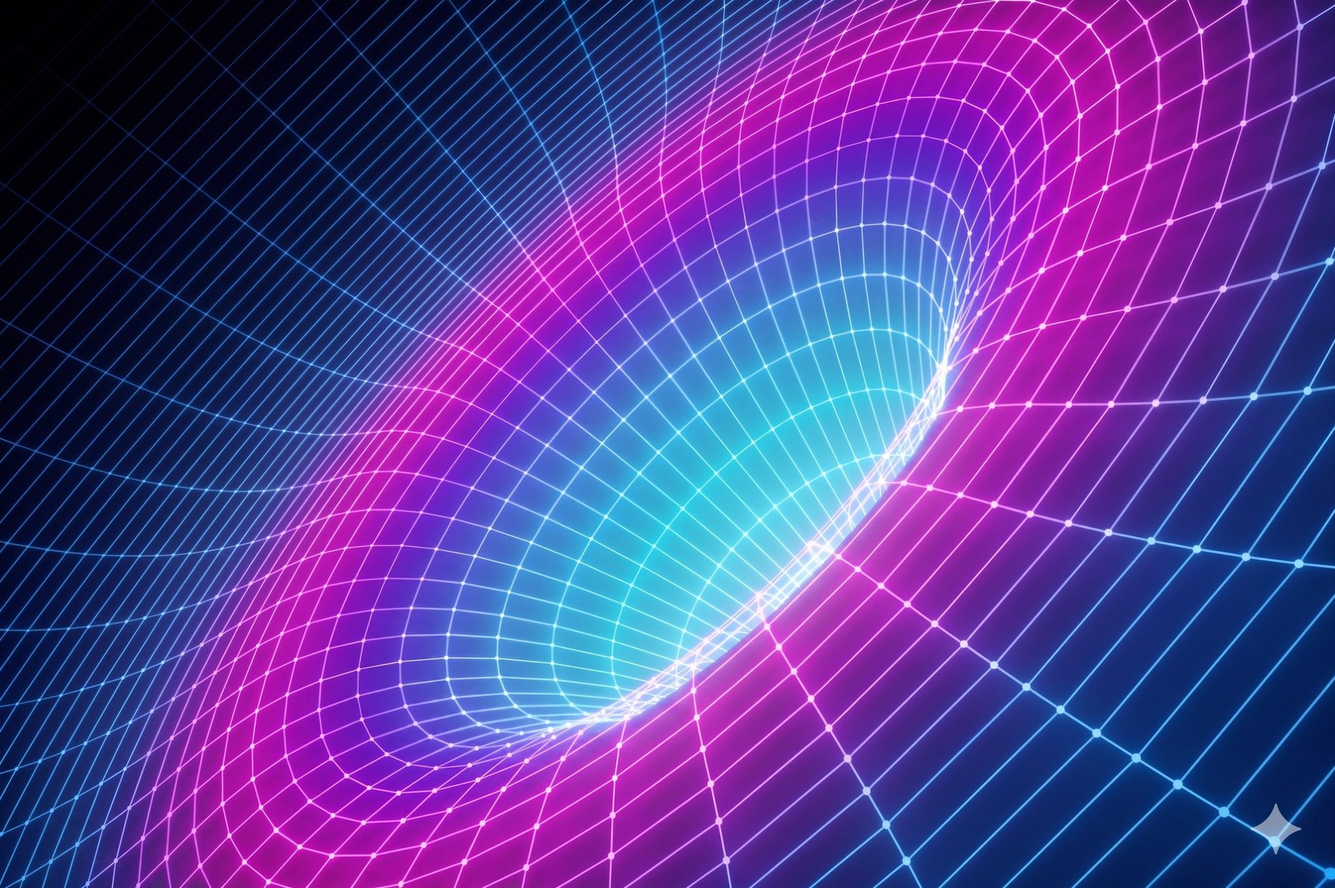
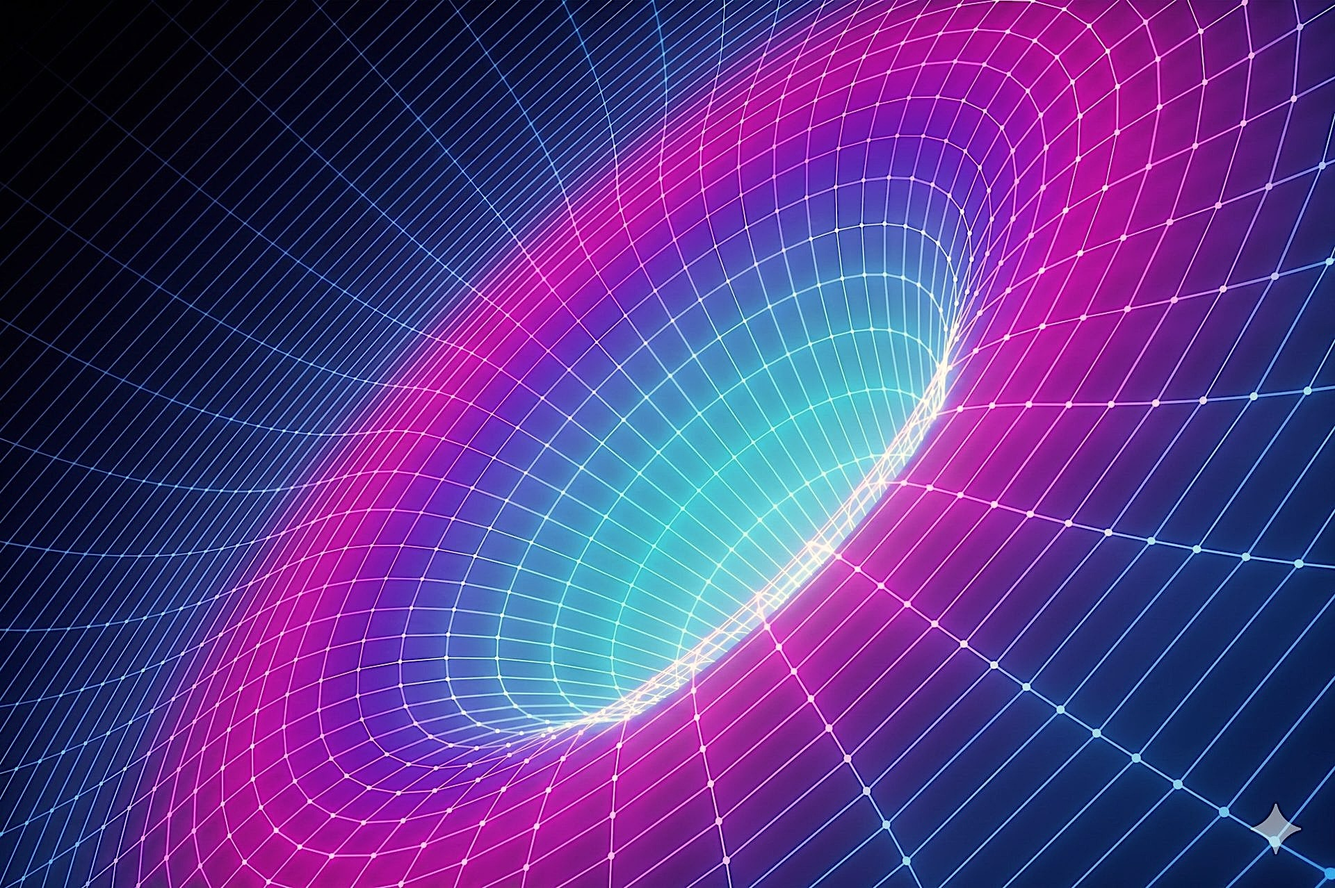
feat: wormhole background for physics pages

diff --git a/物理/index.html b/物理/index.html
@@ -46,6 +46,7 @@ header .meta { font-family: "JetBrains Mono", monospace; font-size: 11px; color:
 @media (prefers-reduced-motion: reduce) { * { transition: none !important; } }
 :root{--accent:#2d5fd6;--accent-soft:rgba(45,95,214,0.08);}[data-theme="dark"]{--accent:#6f9bff;--accent-soft:rgba(111,155,255,0.12);}
 body{background-image:none !important;background-color:#07080f !important;}body::before{content:'';position:fixed;inset:0;z-index:-2;background:url('https://takatomoteki.github.io/pdf-site/assets/phys-bg.jpg') center center/cover no-repeat;}body::after{content:'';position:fixed;inset:0;z-index:-1;background:rgba(7,8,18,0.82);}:root,[data-theme="dark"]{--ink:#f0f1f8;--ink-soft:#a9adca;--surface:rgba(22,24,42,0.66);--line:rgba(255,255,255,0.14);}header{background:rgba(7,8,18,0.45) !important;-webkit-backdrop-filter:blur(14px);backdrop-filter:blur(14px);}.pdf-item,.cat-card{-webkit-backdrop-filter:blur(10px);backdrop-filter:blur(10px);}
+body{background-image:none !important;background-color:#07080f !important;}body::before{content:'';position:fixed;inset:0;z-index:-2;background:url('https://takatomoteki.github.io/pdf-site/assets/phys-bg.jpg') center center/cover no-repeat;}body::after{content:'';position:fixed;inset:0;z-index:-1;background:rgba(7,8,18,0.82);}:root,[data-theme="dark"]{--ink:#f0f1f8;--ink-soft:#a9adca;--surface:rgba(22,24,42,0.66);--line:rgba(255,255,255,0.14);}header{background:rgba(7,8,18,0.45) !important;-webkit-backdrop-filter:blur(14px);backdrop-filter:blur(14px);}.pdf-item,.cat-card{-webkit-backdrop-filter:blur(10px);backdrop-filter:blur(10px);}
 .cat-list{display:flex;flex-direction:column;gap:14px}
 .cat-card{background:var(--surface);border:1px solid var(--line);border-radius:18px;padding:24px 26px;text-decoration:none;color:var(--ink);display:flex;align-items:center;gap:20px;box-shadow:var(--shadow);transition:transform 0.25s cubic-bezier(0.2,0.8,0.2,1),box-shadow 0.25s,border-color 0.25s;position:relative;overflow:hidden}
 .cat-card::after{content:"";position:absolute;inset:0;background:var(--accent-soft);opacity:0;transition:opacity 0.25s;pointer-events:none}

diff --git a/物理/26物理確認テスト/index.html b/物理/26物理確認テスト/index.html
@@ -46,6 +46,7 @@ header .meta { font-family: "JetBrains Mono", monospace; font-size: 11px; color:
 @media (prefers-reduced-motion: reduce) { * { transition: none !important; } }
 :root{--accent:#2d5fd6;--accent-soft:rgba(45,95,214,0.08);}[data-theme="dark"]{--accent:#6f9bff;--accent-soft:rgba(111,155,255,0.12);}
 body{background-image:none !important;background-color:#07080f !important;}body::before{content:'';position:fixed;inset:0;z-index:-2;background:url('https://takatomoteki.github.io/pdf-site/assets/phys-bg.jpg') center center/cover no-repeat;}body::after{content:'';position:fixed;inset:0;z-index:-1;background:rgba(7,8,18,0.82);}:root,[data-theme="dark"]{--ink:#f0f1f8;--ink-soft:#a9adca;--surface:rgba(22,24,42,0.66);--line:rgba(255,255,255,0.14);}header{background:rgba(7,8,18,0.45) !important;-webkit-backdrop-filter:blur(14px);backdrop-filter:blur(14px);}.pdf-item,.cat-card{-webkit-backdrop-filter:blur(10px);backdrop-filter:blur(10px);}
+body{background-image:none !important;background-color:#07080f !important;}body::before{content:'';position:fixed;inset:0;z-index:-2;background:url('https://takatomoteki.github.io/pdf-site/assets/phys-bg.jpg') center center/cover no-repeat;}body::after{content:'';position:fixed;inset:0;z-index:-1;background:rgba(7,8,18,0.82);}:root,[data-theme="dark"]{--ink:#f0f1f8;--ink-soft:#a9adca;--surface:rgba(22,24,42,0.66);--line:rgba(255,255,255,0.14);}header{background:rgba(7,8,18,0.45) !important;-webkit-backdrop-filter:blur(14px);backdrop-filter:blur(14px);}.pdf-item,.cat-card{-webkit-backdrop-filter:blur(10px);backdrop-filter:blur(10px);}
 .pdf-list{display:flex;flex-direction:column;gap:12px}
 .pdf-item{background:var(--surface);border:1px solid var(--line);border-radius:16px;padding:18px 22px;display:flex;align-items:center;justify-content:space-between;gap:16px;box-shadow:var(--shadow);transition:transform 0.2s,box-shadow 0.2s,border-color 0.2s}
 .pdf-item:hover{transform:translateY(-2px);box-shadow:var(--shadow-lift);border-color:var(--accent)}

diff --git a/物理/物理ミニテスト/index.html b/物理/物理ミニテスト/index.html
@@ -46,6 +46,7 @@ header .meta { font-family: "JetBrains Mono", monospace; font-size: 11px; color:
 @media (prefers-reduced-motion: reduce) { * { transition: none !important; } }
 :root{--accent:#2d5fd6;--accent-soft:rgba(45,95,214,0.08);}[data-theme="dark"]{--accent:#6f9bff;--accent-soft:rgba(111,155,255,0.12);}
 body{background-image:none !important;background-color:#07080f !important;}body::before{content:'';position:fixed;inset:0;z-index:-2;background:url('https://takatomoteki.github.io/pdf-site/assets/phys-bg.jpg') center center/cover no-repeat;}body::after{content:'';position:fixed;inset:0;z-index:-1;background:rgba(7,8,18,0.82);}:root,[data-theme="dark"]{--ink:#f0f1f8;--ink-soft:#a9adca;--surface:rgba(22,24,42,0.66);--line:rgba(255,255,255,0.14);}header{background:rgba(7,8,18,0.45) !important;-webkit-backdrop-filter:blur(14px);backdrop-filter:blur(14px);}.pdf-item,.cat-card{-webkit-backdrop-filter:blur(10px);backdrop-filter:blur(10px);}
+body{background-image:none !important;background-color:#07080f !important;}body::before{content:'';position:fixed;inset:0;z-index:-2;background:url('https://takatomoteki.github.io/pdf-site/assets/phys-bg.jpg') center center/cover no-repeat;}body::after{content:'';position:fixed;inset:0;z-index:-1;background:rgba(7,8,18,0.82);}:root,[data-theme="dark"]{--ink:#f0f1f8;--ink-soft:#a9adca;--surface:rgba(22,24,42,0.66);--line:rgba(255,255,255,0.14);}header{background:rgba(7,8,18,0.45) !important;-webkit-backdrop-filter:blur(14px);backdrop-filter:blur(14px);}.pdf-item,.cat-card{-webkit-backdrop-filter:blur(10px);backdrop-filter:blur(10px);}
 .pdf-list{display:flex;flex-direction:column;gap:12px}
 .pdf-item{background:var(--surface);border:1px solid var(--line);border-radius:16px;padding:18px 22px;display:flex;align-items:center;justify-content:space-between;gap:16px;box-shadow:var(--shadow);transition:transform 0.2s,box-shadow 0.2s,border-color 0.2s}
 .pdf-item:hover{transform:translateY(-2px);box-shadow:var(--shadow-lift);border-color:var(--accent)}

diff --git a/物理/物理基本編/index.html b/物理/物理基本編/index.html
@@ -46,6 +46,7 @@ header .meta { font-family: "JetBrains Mono", monospace; font-size: 11px; color:
 @media (prefers-reduced-motion: reduce) { * { transition: none !important; } }
 :root{--accent:#2d5fd6;--accent-soft:rgba(45,95,214,0.08);}[data-theme="dark"]{--accent:#6f9bff;--accent-soft:rgba(111,155,255,0.12);}
 body{background-image:none !important;background-color:#07080f !important;}body::before{content:'';position:fixed;inset:0;z-index:-2;background:url('https://takatomoteki.github.io/pdf-site/assets/phys-bg.jpg') center center/cover no-repeat;}body::after{content:'';position:fixed;inset:0;z-index:-1;background:rgba(7,8,18,0.82);}:root,[data-theme="dark"]{--ink:#f0f1f8;--ink-soft:#a9adca;--surface:rgba(22,24,42,0.66);--line:rgba(255,255,255,0.14);}header{background:rgba(7,8,18,0.45) !important;-webkit-backdrop-filter:blur(14px);backdrop-filter:blur(14px);}.pdf-item,.cat-card{-webkit-backdrop-filter:blur(10px);backdrop-filter:blur(10px);}
+body{background-image:none !important;background-color:#07080f !important;}body::before{content:'';position:fixed;inset:0;z-index:-2;background:url('https://takatomoteki.github.io/pdf-site/assets/phys-bg.jpg') center center/cover no-repeat;}body::after{content:'';position:fixed;inset:0;z-index:-1;background:rgba(7,8,18,0.82);}:root,[data-theme="dark"]{--ink:#f0f1f8;--ink-soft:#a9adca;--surface:rgba(22,24,42,0.66);--line:rgba(255,255,255,0.14);}header{background:rgba(7,8,18,0.45) !important;-webkit-backdrop-filter:blur(14px);backdrop-filter:blur(14px);}.pdf-item,.cat-card{-webkit-backdrop-filter:blur(10px);backdrop-filter:blur(10px);}
 .pdf-list{display:flex;flex-direction:column;gap:12px}
 .pdf-item{background:var(--surface);border:1px solid var(--line);border-radius:16px;padding:18px 22px;display:flex;align-items:center;justify-content:space-between;gap:16px;box-shadow:var(--shadow);transition:transform 0.2s,box-shadow 0.2s,border-color 0.2s}
 .pdf-item:hover{transform:translateY(-2px);box-shadow:var(--shadow-lift);border-color:var(--accent)}

diff --git a/化学/index.html b/化学/index.html
@@ -46,6 +46,7 @@ header .meta { font-family: "JetBrains Mono", monospace; font-size: 11px; color:
 @media (prefers-reduced-motion: reduce) { * { transition: none !important; } }
 :root{--accent:#d6452f;--accent-soft:rgba(214,69,47,0.08);}[data-theme="dark"]{--accent:#ff7a64;--accent-soft:rgba(255,122,100,0.12);}
 
+
 .cat-list{display:flex;flex-direction:column;gap:14px}
 .cat-card{background:var(--surface);border:1px solid var(--line);border-radius:18px;padding:24px 26px;text-decoration:none;color:var(--ink);display:flex;align-items:center;gap:20px;box-shadow:var(--shadow);transition:transform 0.25s cubic-bezier(0.2,0.8,0.2,1),box-shadow 0.25s,border-color 0.25s;position:relative;overflow:hidden}
 .cat-card::after{content:"";position:absolute;inset:0;background:var(--accent-soft);opacity:0;transition:opacity 0.25s;pointer-events:none}

diff --git a/化学/26化学確認テスト/index.html b/化学/26化学確認テスト/index.html
@@ -46,6 +46,7 @@ header .meta { font-family: "JetBrains Mono", monospace; font-size: 11px; color:
 @media (prefers-reduced-motion: reduce) { * { transition: none !important; } }
 :root{--accent:#d6452f;--accent-soft:rgba(214,69,47,0.08);}[data-theme="dark"]{--accent:#ff7a64;--accent-soft:rgba(255,122,100,0.12);}
 
+
 .pdf-list{display:flex;flex-direction:column;gap:12px}
 .pdf-item{background:var(--surface);border:1px solid var(--line);border-radius:16px;padding:18px 22px;display:flex;align-items:center;justify-content:space-between;gap:16px;box-shadow:var(--shadow);transition:transform 0.2s,box-shadow 0.2s,border-color 0.2s}
 .pdf-item:hover{transform:translateY(-2px);box-shadow:var(--shadow-lift);border-color:var(--accent)}

diff --git a/化学/Ιρις化学/index.html b/化学/Ιρις化学/index.html
@@ -46,6 +46,7 @@ header .meta { font-family: "JetBrains Mono", monospace; font-size: 11px; color:
 @media (prefers-reduced-motion: reduce) { * { transition: none !important; } }
 :root{--accent:#d6452f;--accent-soft:rgba(214,69,47,0.08);}[data-theme="dark"]{--accent:#ff7a64;--accent-soft:rgba(255,122,100,0.12);}
 
+
 .pdf-list{display:flex;flex-direction:column;gap:12px}
 .pdf-item{background:var(--surface);border:1px solid var(--line);border-radius:16px;padding:18px 22px;display:flex;align-items:center;justify-content:space-between;gap:16px;box-shadow:var(--shadow);transition:transform 0.2s,box-shadow 0.2s,border-color 0.2s}
 .pdf-item:hover{transform:translateY(-2px);box-shadow:var(--shadow-lift);border-color:var(--accent)}

diff --git a/化学/化学典型問題/index.html b/化学/化学典型問題/index.html
@@ -46,6 +46,7 @@ header .meta { font-family: "JetBrains Mono", monospace; font-size: 11px; color:
 @media (prefers-reduced-motion: reduce) { * { transition: none !important; } }
 :root{--accent:#d6452f;--accent-soft:rgba(214,69,47,0.08);}[data-theme="dark"]{--accent:#ff7a64;--accent-soft:rgba(255,122,100,0.12);}
 
+
 .pdf-list{display:flex;flex-direction:column;gap:12px}
 .pdf-item{background:var(--surface);border:1px solid var(--line);border-radius:16px;padding:18px 22px;display:flex;align-items:center;justify-content:space-between;gap:16px;box-shadow:var(--shadow);transition:transform 0.2s,box-shadow 0.2s,border-color 0.2s}
 .pdf-item:hover{transform:translateY(-2px);box-shadow:var(--shadow-lift);border-color:var(--accent)}
